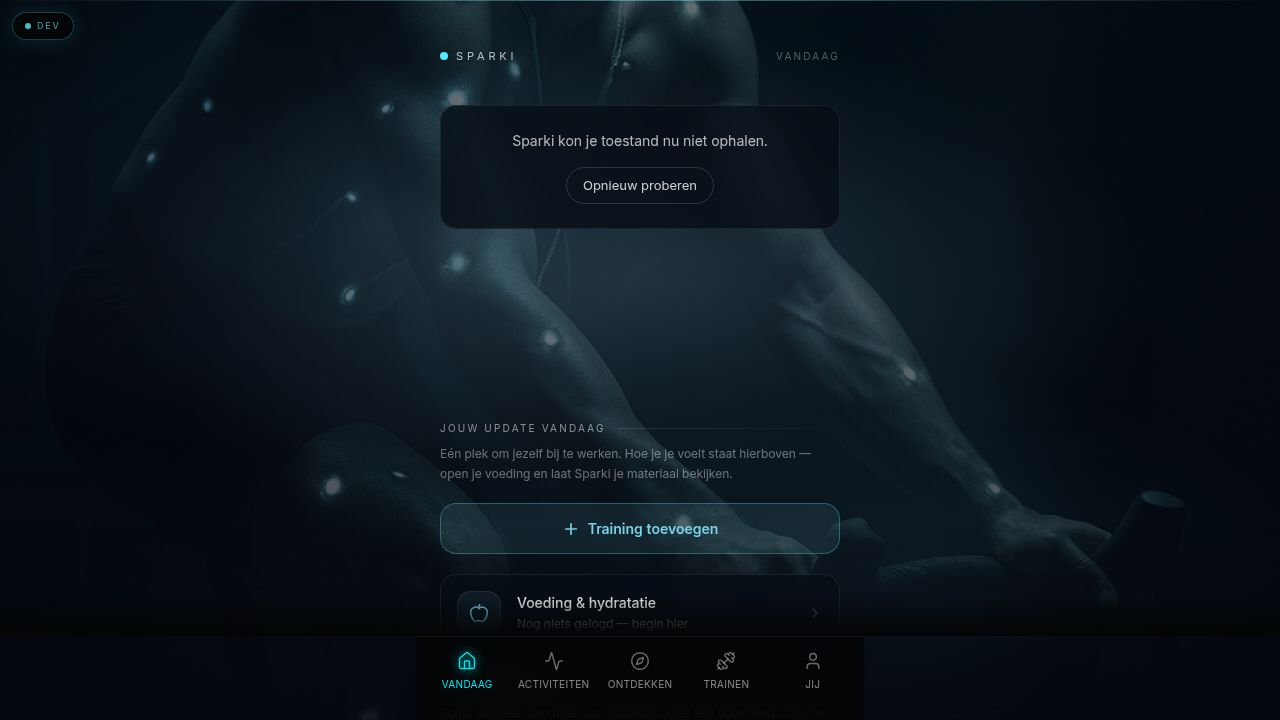
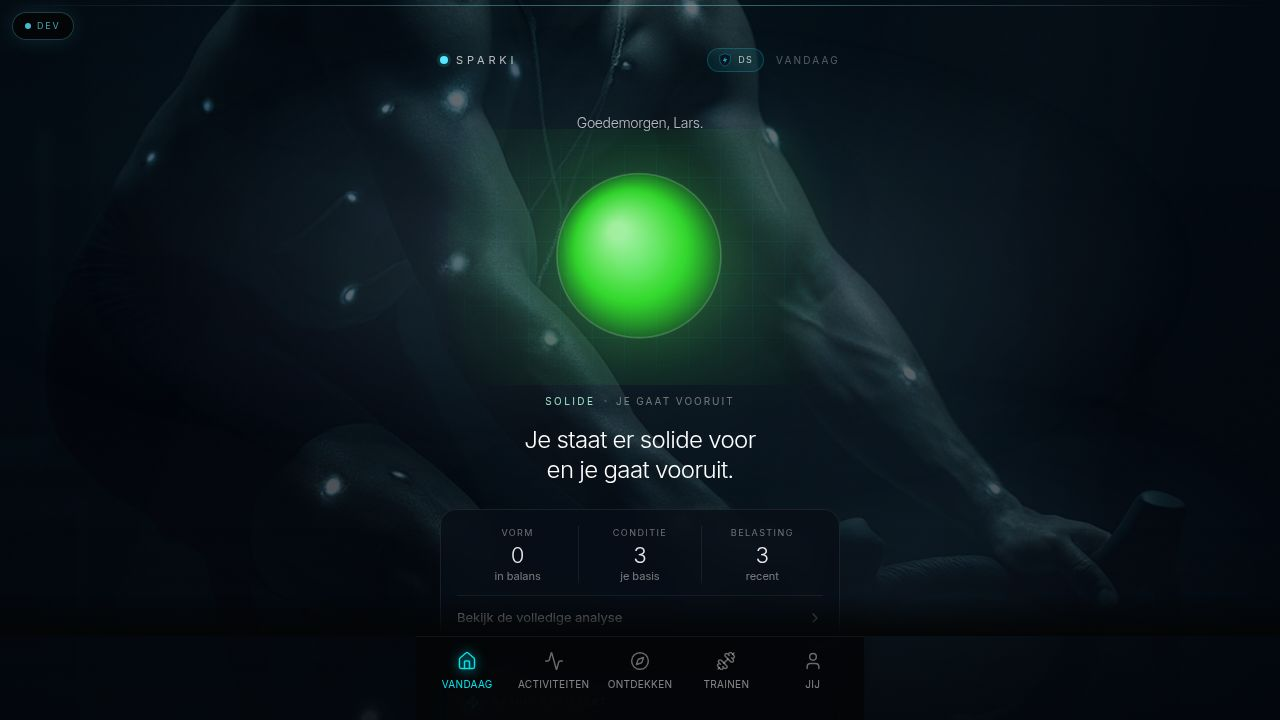
Kwaliteitsronde: Vandaag & Trainen (Task #224)
First focused quality sweep of the two most-used screens (Vandaag/Home and
Trainen/Train): fix crashes, dead-ends and inconsistencies, add a test.

Fixes:
- day-home.tsx: DayHome dispatcher now falls back to GeneralDayHome when a
  DayType has no registered component, so an unregistered type can never render
  `undefined` (blank crash). Robust fallback per task step 2.
- three-week-plan.tsx: fixed Monday-alignment/off-by-one in the 3-week grid.
  localDate() and mondayIndex() now use LOCAL getters instead of UTC
  toISOString(), so the grid, the "vandaag"-highlight and workout matching all
  agree with the athlete's own calendar day near midnight.
- training-day-home.tsx: same local-date fix for the weekTSS "today" bar so the
  highlighted bar matches the local day.
- workout-detail-drawer.tsx: guard against an unknown structure.routeNeed
  (fell through to undefined → RouteIcon crash); now falls back to
  routeNeedLabel.none.

Copy/voice check: no user-facing "AI" or narrator-stem strings on either
screen (only code comments contain "AI"/"Sparki zag").

Tests:
- New src/lib/day-type.test.ts pins the registry-completeness invariant (every
  DayType has a briefing → no undefined-component crash) plus the detection
  precedence (health→race→rest→coach→recovery→sparki→general). Registered as
  `test:day-type` script + `test-day-type` workflow. 6/6 green.

Verification: sparki typecheck clean; both screens render end-to-end (app
preview) without crashes.
[…]

diff --git a/artifacts/sparki/src/lib/day-type.test.ts b/artifacts/sparki/src/lib/day-type.test.ts
@@ -1,0 +1,156 @@
+// Tests for the day-type engine (blueprint §4) that drives the Vandaag home.
+//
+// The DayHome dispatcher detects today's DayType and renders the registered
+// homepage for it. Two invariants keep Vandaag from crashing:
+//   1. detectDayType only ever returns members of the DayType union.
+//   2. every detectable type has a briefing in dayTypeRegistry — otherwise the
+//      dispatcher would call an undefined component and render a blank crash.
+// These tests also pin the detection precedence (health → race → rest → coach →
+// recovery → sparki → general) that the sick/injured block visibility relies on.
+//
+// Pure function, no DB — run with: `pnpm --filter @workspace/sparki run test:day-type`
+// Exits non-zero on any failure.
+import {
+  detectDayType,
+  dayTypeRegistry,
+  getDayTypeBriefing,
+  type DayType,
+  type DayTypeContext,
+} from "./day-type"
+
+type Status = "pass" | "fail"
+const results: { scenario: string; status: Status; note?: string }[] = []
+
+function assert(cond: unknown, msg: string) {
+  if (!cond) throw new Error(msg)
+}
+
+function scenario(name: string, fn: () => void) {
+  try {
+    fn()
+    results.push({ scenario: name, status: "pass" })
+  } catch (e) {
+    results.push({
+      scenario: name,
+      status: "fail",
+      note: e instanceof Error ? e.message : String(e),
+    })
+  }
+}
+
+const base: DayTypeContext = {
+  todayWorkout: null,
+  hasProfile: true,
+  healthStatus: "ok",
+  race: null,
+}
+
+const ALL_TYPES: DayType[] = [
+  "emergency",
+  "race_day",
+  "day_before_race",
+  "race_week",
+  "travel_day",
+  "post_race",
+  "coach_training",
+  "sparki_training",
+  "recovery",
+  "rest",
+  "general",
+]
+
+scenario("every DayType has a briefing (no undefined-component crash)", () => {
+  for (const t of ALL_TYPES) {
+    assert(
+      typeof dayTypeRegistry[t] === "function",
+      `missing briefing builder for ${t}`,
+    )
+    const b = getDayTypeBriefing(t, base)
+    assert(!!b.title && !!b.eyebrow, `empty briefing for ${t}`)
+  }
+})
+
+scenario("sick/injured always leads with emergency (health first)", () => {
+  assert(
+    detectDayType({ ...base, healthStatus: "sick" }) === "emergency",
+    "sick should be emergency",
+  )
+  assert(
+    detectDayType({ ...base, healthStatus: "injured" }) === "emergency",
+    "injured should be emergency",
+  )
+  // Health outranks a planned coach workout.
+  assert(
+    detectDayType({
+      ...base,
+      healthStatus: "sick",
+      todayWorkout: { type: "intervals", source: "coach" },
+    }) === "emergency",
+    "sick must outrank coach training",
+  )
+})
+
+scenario("race context maps to its race homepage below emergency", () => {
+  assert(
+    detectDayType({
+      ...base,
+      race: { phase: "race_day", daysUntil: 0, name: "X" },
+    }) === "race_day",
+    "race_day phase",
+  )
+  assert(
+    detectDayType({
+      ...base,
+      race: { phase: "day_before", daysUntil: 1, name: "X" },
+    }) === "day_before_race",
+    "day_before phase",
+  )
+})
+
+scenario("explicit rest workout wins over coach/sparki", () => {
+  assert(
+    detectDayType({
+      ...base,
+      todayWorkout: { type: "rustdag", source: "coach" },
+    }) === "rest",
+    "rest workout should be rest even when coach-planned",
+  )
+})
+
+scenario("coach source leads, else recovery, else sparki", () => {
+  assert(
+    detectDayType({
+      ...base,
+      todayWorkout: { type: "intervals", source: "coach" },
+    }) === "coach_training",
+    "coach source",
+  )
+  assert(
+    detectDayType({
+      ...base,
+      todayWorkout: { type: "herstelrit", source: "sparki" },
+    }) === "recovery",
+    "non-coach recovery",
+  )
+  assert(
+    detectDayType({
+      ...base,
+      todayWorkout: { type: "tempo", source: "sparki" },
+    }) === "sparki_training",
+    "normal sparki session",
+  )
+})
+
+scenario("no workout falls back to general", () => {
+  assert(detectDayType(base) === "general", "no workout should be general")
+})
+
+// ── report ──
+let failed = 0
+for (const r of results) {
+  if (r.status === "fail") failed++
+  const tag = r.status === "pass" ? "PASS" : "FAIL"
+  console.log(`[${tag}] ${r.scenario}${r.note ? ` — ${r.note}` : ""}`)
+}
+console.log(`\n${results.length - failed}/${results.length} passed`)
+if (failed > 0) process.exit(1)

diff --git a/artifacts/sparki/src/components/sparki/three-week-plan.tsx b/artifacts/sparki/src/components/sparki/three-week-plan.tsx
@@ -13,13 +13,17 @@ import { Loader2, CalendarRange } from "lucide-react"
 
 const DOW = ["MA", "DI", "WO", "DO", "VR", "ZA", "ZO"]
 
+// Local calendar date (YYYY-MM-DD) — built from local getters so the grid, the
+// "vandaag"-highlight and the workout matching all agree with the athlete's own
+// day, never a UTC-shifted day near midnight (local-date UTC off-by-one trap).
 function localDate(d: Date): string {
-  return d.toISOString().split("T")[0]!
+  return `${d.getFullYear()}-${String(d.getMonth() + 1).padStart(2, "0")}-${String(d.getDate()).padStart(2, "0")}`
 }
 
-// Monday-aligned offset (JS getUTCDay: 0=Sun..6=Sat → 0=Mon..6=Sun).
+// Monday-aligned offset (JS getDay: 0=Sun..6=Sat → 0=Mon..6=Sun).
 function mondayIndex(dateStr: string): number {
-  const day = new Date(dateStr + "T12:00:00Z").getUTCDay()
+  const [y, m, d] = dateStr.split("-").map(Number)
+  const day = new Date(y!, m! - 1, d!, 12).getDay()
   return (day + 6) % 7
 }
 

diff --git a/artifacts/sparki/src/components/sparki/training-day-home.tsx b/artifacts/sparki/src/components/sparki/training-day-home.tsx
@@ -241,7 +241,8 @@ export function TrainingDayHome({
               {data.weekTSS && data.weekTSS.length > 0 && (
                 <div className="mt-5 flex h-24 items-end gap-1.5">
                   {data.weekTSS.map(({ date, tss }) => {
-                    const today = new Date().toISOString().split("T")[0]
+                    const n = new Date()
+                    const today = `${n.getFullYear()}-${String(n.getMonth() + 1).padStart(2, "0")}-${String(n.getDate()).padStart(2, "0")}`
                     const isToday = date === today
                     const maxTSS = Math.max(...data.weekTSS.map((d) => d.tss), 1)
                     const h = Math.max((tss / maxTSS) * 100, tss > 0 ? 8 : 0)

diff --git a/artifacts/sparki/src/components/sparki/day-home.tsx b/artifacts/sparki/src/components/sparki/day-home.tsx
@@ -419,7 +419,9 @@ function DayHomeInner({
 
   const dayType = devDayTypeOverride ?? detectDayType(ctx)
   const briefing = getDayTypeBriefing(dayType, ctx)
-  const Component = dayHomeRegistry[dayType]
+  // Defensive: an unregistered day type must never render `undefined` (a blank
+  // crash). Fall back to the General homepage so Vandaag always shows something.
+  const Component = dayHomeRegistry[dayType] ?? GeneralDayHome
 
   // ── Adaptive Coach Engine ─────────────────────────────────────────────────
   // Today's real day data feeds the engine. The engine sits between the profile

diff --git a/artifacts/sparki/src/components/sparki/workout-detail-drawer.tsx b/artifacts/sparki/src/components/sparki/workout-detail-drawer.tsx
@@ -321,9 +321,9 @@ export function WorkoutDetailDrawer({
     }
   }
 
-  const route = structure
-    ? routeNeedLabel[structure.routeNeed]
-    : routeNeedLabel.none
+  const route =
+    (structure ? routeNeedLabel[structure.routeNeed] : routeNeedLabel.none) ??
+    routeNeedLabel.none
   const RouteIcon = route.icon
 
   // A training in the future hasn't happened yet, so asking "hoe ging het" is
